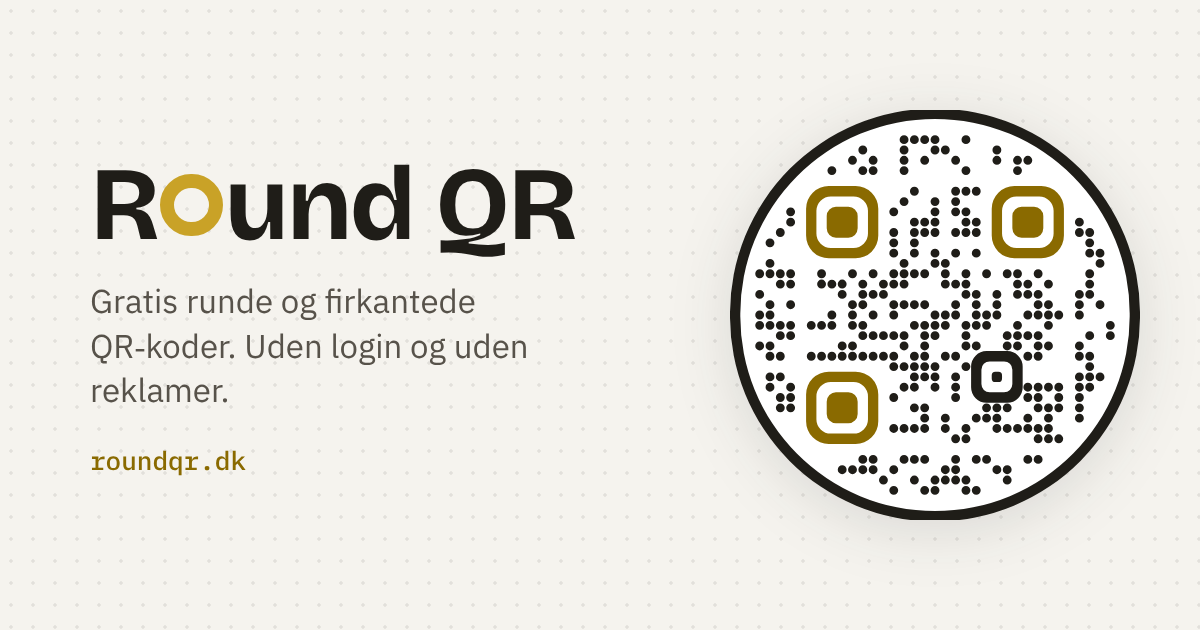
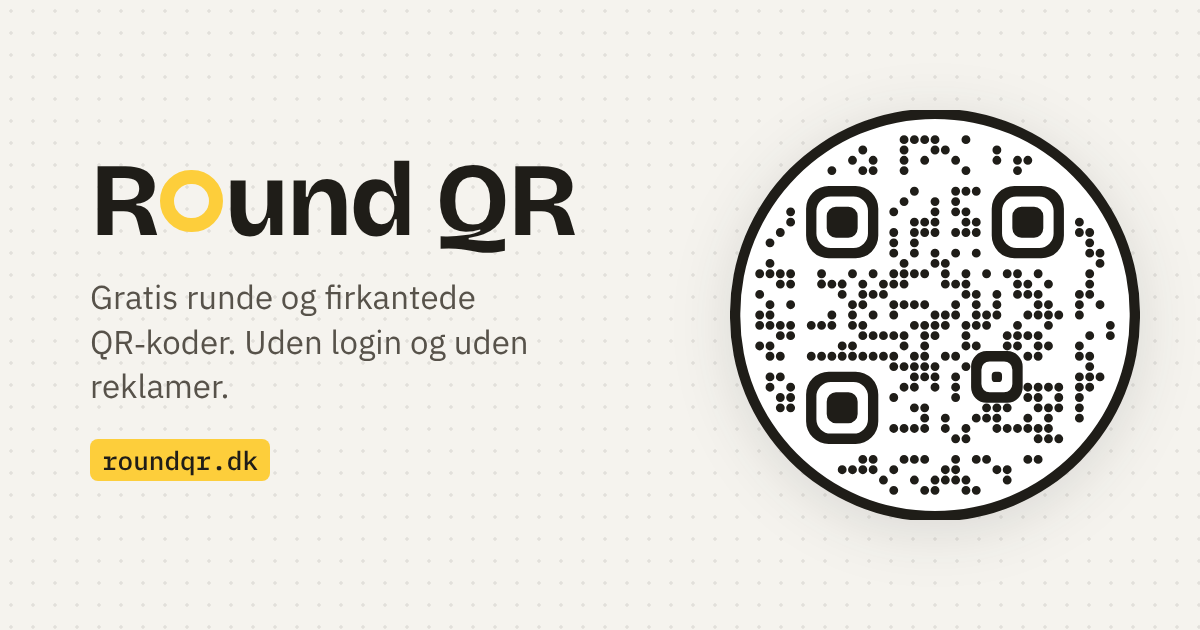
Gul som ai-workshop.dk i stedet for guld
Claude-Session: https://claude.ai/code/session_01TdJqpZBuzSHtcKeftNjitx

diff --git a/roundqr.html b/roundqr.html
@@ -5,7 +5,7 @@
 <meta name="viewport" content="width=device-width, initial-scale=1, viewport-fit=cover">
 <title>Round QR</title>
 <meta name="description" content="Lav runde eller almindelige QR-koder fra et link. Vælg form, farver og logo, og gem som PNG, JPG eller SVG. Gratis, uden login og uden reklamer.">
[2 lines of base64/hex data omitted]
 <style>:root{color-scheme:light;padding-top:env(safe-area-inset-top,0px);padding-bottom:env(safe-area-inset-bottom,0px)}body{margin:0}img{max-width:100%}[hidden]{display:none!important}</style>
 </head>
 <body>
@@ -25,8 +25,8 @@
   --ink: #1f1d18;
   --muted: #6b665a;
   --line: #e0dbcf;
-  --accent: #c9a227;
-  --accent-strong: #8a6a00;
+  --accent: #fdce3b;
+  --accent-strong: #1f1d18;
   --accent-ink: #1f1d18;
   --ok: #2b7a4b;
   --ok-bg: #e2f1e7;
@@ -39,14 +39,14 @@
 @media (prefers-color-scheme: dark) {
   :root:not([data-theme="light"]) {
     --bg: #141310; --surface: #1c1b17; --stage: #24221c; --ink: #ece8de; --muted: #a39d8e;
-    --line: #34312a; --accent: #f2c230; --accent-strong: #f7cb40; --accent-ink: #17150f;
+    --line: #34312a; --accent: #fdce3b; --accent-strong: #fdce3b; --accent-ink: #17150f;
     --ok: #7fd3a0; --ok-bg: #173226; --warn: #f2ab6b; --warn-bg: #36261a;
     color-scheme: dark;
   }
 }
 :root[data-theme="dark"] {
   --bg: #141310; --surface: #1c1b17; --stage: #24221c; --ink: #ece8de; --muted: #a39d8e;
-  --line: #34312a; --accent: #f2c230; --accent-strong: #f7cb40; --accent-ink: #17150f;
+  --line: #34312a; --accent: #fdce3b; --accent-strong: #fdce3b; --accent-ink: #17150f;
   --ok: #7fd3a0; --ok-bg: #173226; --warn: #f2ab6b; --warn-bg: #36261a;
   color-scheme: dark;
 }

diff --git a/index.html b/index.html
@@ -40,8 +40,8 @@
   --ink: #1f1d18;
   --muted: #6b665a;
   --line: #e0dbcf;
-  --accent: #c9a227;
-  --accent-strong: #8a6a00;
+  --accent: #fdce3b;
+  --accent-strong: #1f1d18;
   --accent-ink: #1f1d18;
   --ok: #2b7a4b;
   --ok-bg: #e2f1e7;
@@ -54,14 +54,14 @@
 @media (prefers-color-scheme: dark) {
   :root:not([data-theme="light"]) {
     --bg: #141310; --surface: #1c1b17; --stage: #24221c; --ink: #ece8de; --muted: #a39d8e;
-    --line: #34312a; --accent: #f2c230; --accent-strong: #f7cb40; --accent-ink: #17150f;
+    --line: #34312a; --accent: #fdce3b; --accent-strong: #fdce3b; --accent-ink: #17150f;
     --ok: #7fd3a0; --ok-bg: #173226; --warn: #f2ab6b; --warn-bg: #36261a;
     color-scheme: dark;
   }
 }
 :root[data-theme="dark"] {
   --bg: #141310; --surface: #1c1b17; --stage: #24221c; --ink: #ece8de; --muted: #a39d8e;
-  --line: #34312a; --accent: #f2c230; --accent-strong: #f7cb40; --accent-ink: #17150f;
+  --line: #34312a; --accent: #fdce3b; --accent-strong: #fdce3b; --accent-ink: #17150f;
   --ok: #7fd3a0; --ok-bg: #173226; --warn: #f2ab6b; --warn-bg: #36261a;
   color-scheme: dark;
 }
